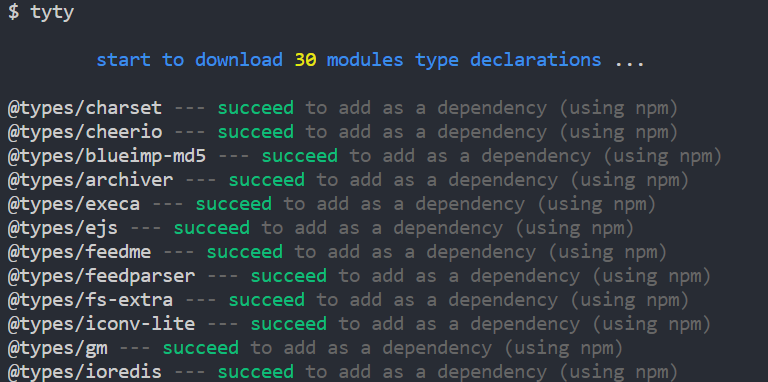
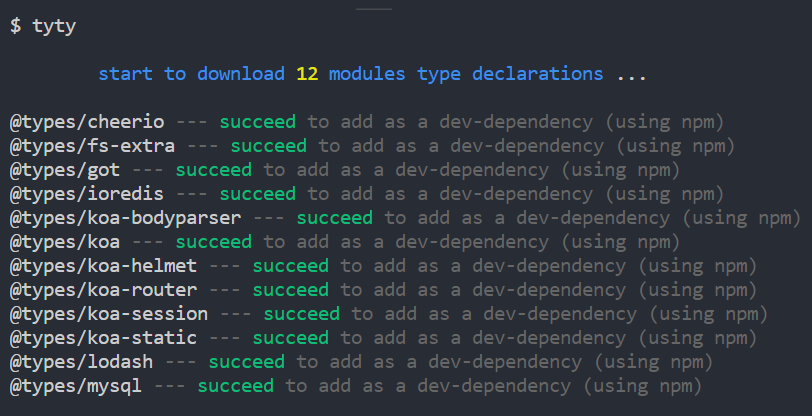
v1.0.6; change the example image; modify execute output;

Changed region(s): [[0.0, 0.2592, 1.0, 1.0], [0.125, 0.144, 0.7812, 0.2016], [0.0, 0.0, 0.0938, 0.0864]]

diff --git a/bin/tyty.js b/bin/tyty.js
@@ -33,7 +33,7 @@ async function action(install) {
     const types = pkgs.map((pkg) => `@types/${pkg}`);
 
     console.log(`
-        ${blue("start to download")} ${yellow(types.length)} ${blue("modules type declarations")} ...
+        ${blue("start to download")} ${yellow(types.length)} ${blue("modules type definitions")} ...
     `);
 
     await install(types);
